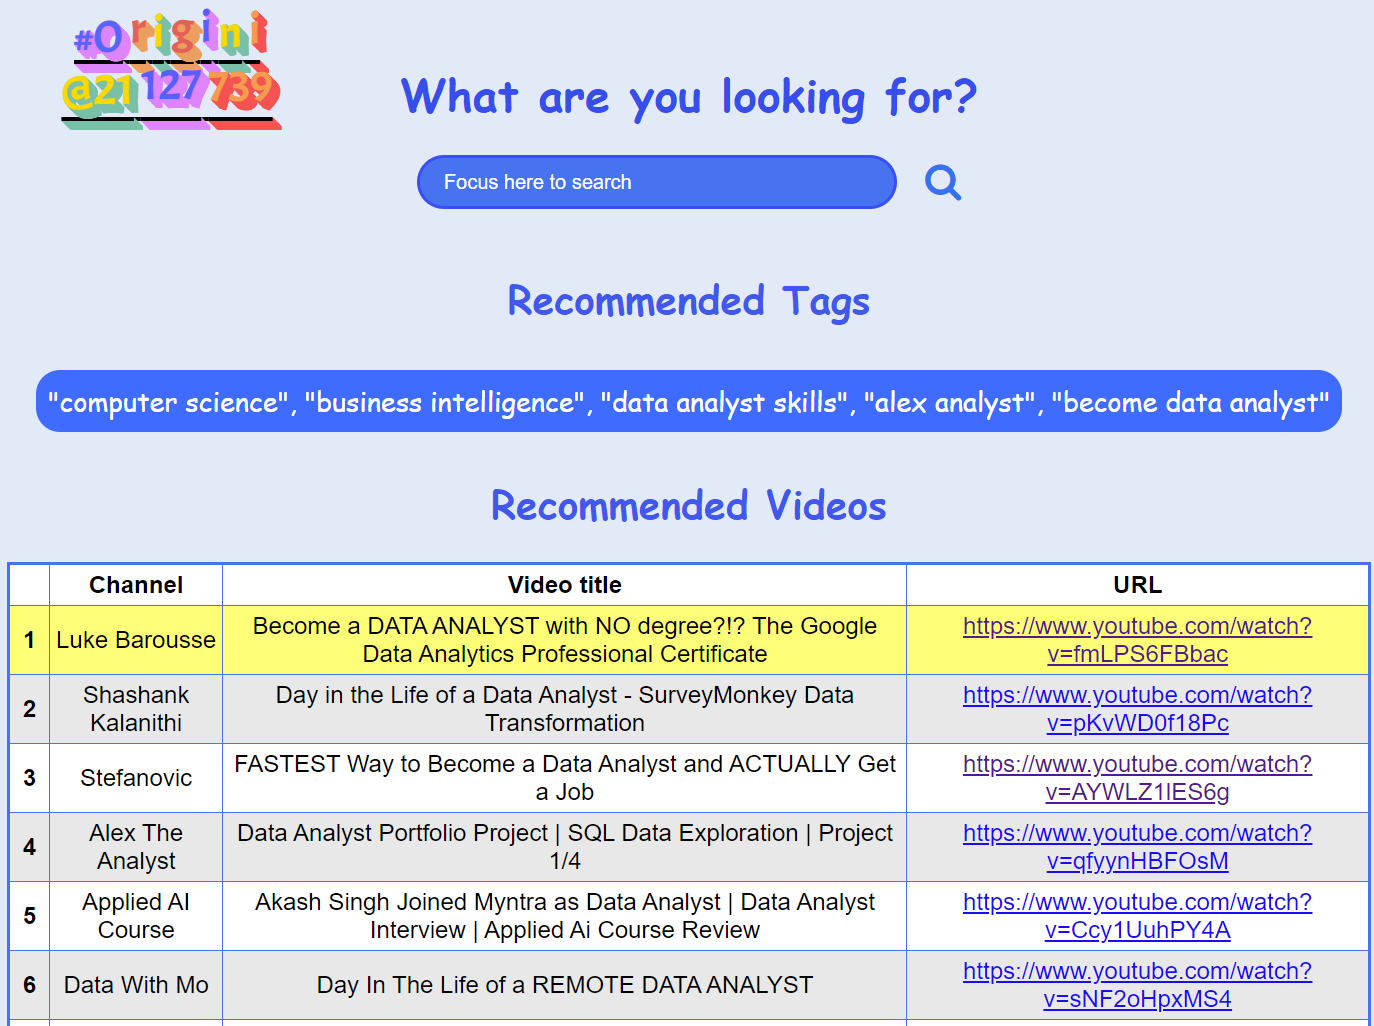
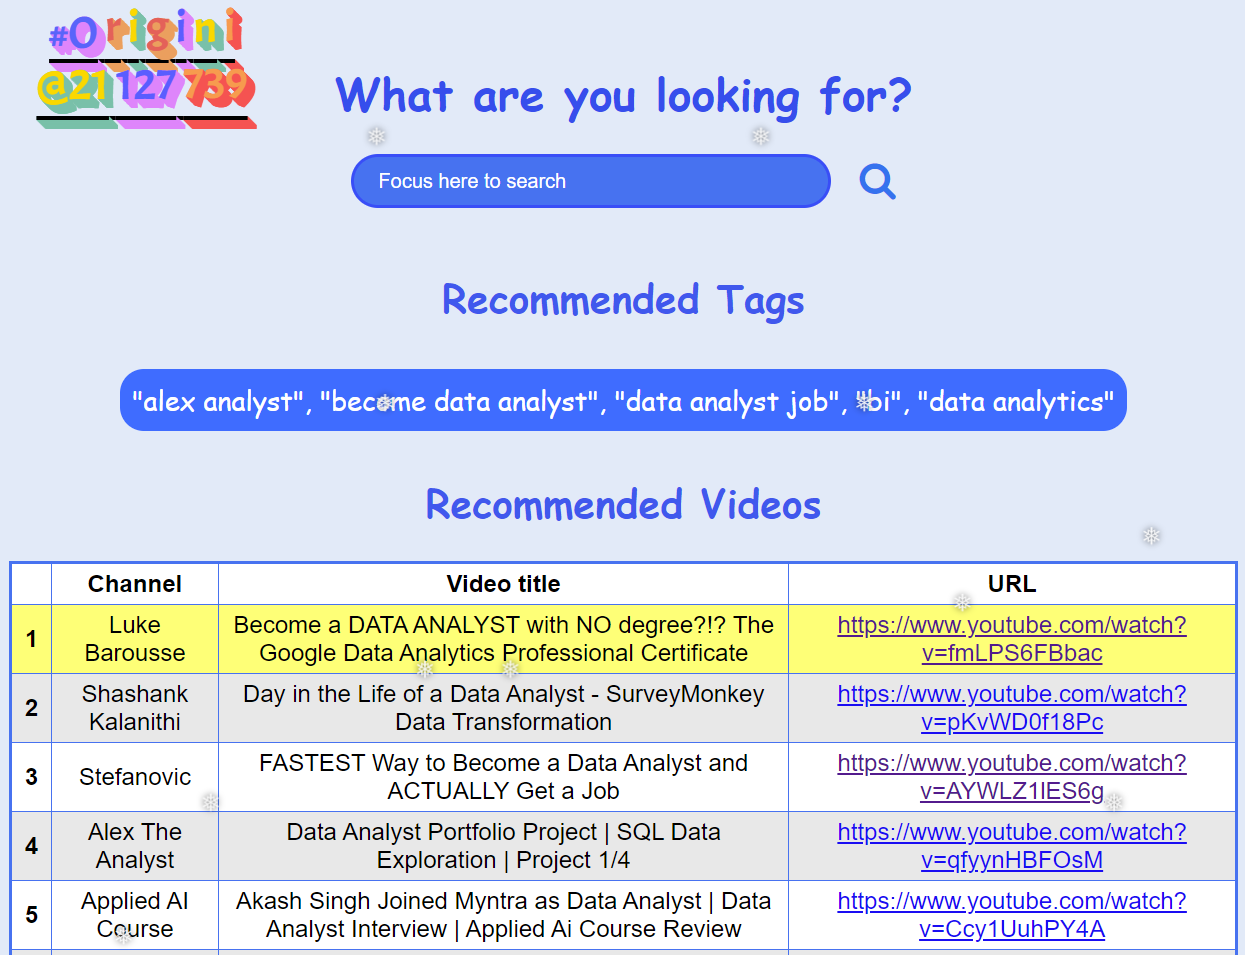
Add snowflakes animation for website

diff --git a/src/templates/index.html b/src/templates/index.html
@@ -242,6 +242,111 @@
     text-decoration: underline;
   }
 
+  .snowflake {
+    color: #fff;
+    font-size: 1em;
+    font-family: Arial, sans-serif;
+    text-shadow: 0 0 5px #000;
+  }
+  .snowflake,.snowflake .inner{
+    animation-iteration-count:infinite;
+    animation-play-state:running
+  }
+  @keyframes snowflakes-fall{
+    0%{transform:translateY(0)}
+    100%{transform:translateY(110vh)}
+  }
+  @keyframes snowflakes-shake{
+    0%,100%{transform:translateX(0)}50%{transform:translateX(80px)}
+  }
+  .snowflake{
+    position:fixed;
+    top:-10%;
+    z-index:9999;
+    -webkit-user-select:none;
+    user-select:none;
+    cursor:default;
+    animation-name:snowflakes-shake;
+    animation-duration:3s;
+    animation-timing-function:ease-in-out}
+    .snowflake .inner{
+      animation-duration:10s;
+      animation-name:snowflakes-fall;
+      animation-timing-function:linear
+  }
+  .snowflake:nth-of-type(0){
+    left:1%;
+    animation-delay:0s
+  }
+  .snowflake:nth-of-type(0) .inner{
+    animation-delay:0s
+  }
+  .snowflake:first-of-type{
+    left:10%;
+    animation-delay:1s
+  }
+  .snowflake:first-of-type .inner,.snowflake:nth-of-type(8) .inner{
+    animation-delay:1s
+  }
+  .snowflake:nth-of-type(2){
+    left:20%;
+    animation-delay:.5s
+  }
+  .snowflake:nth-of-type(2) .inner,.snowflake:nth-of-type(6) .inner{
+    animation-delay:6s
+  }
+  .snowflake:nth-of-type(3){
+    left:30%;
+    animation-delay:2s
+  }
+  .snowflake:nth-of-type(11) .inner,.snowflake:nth-of-type(3) .inner{
+    animation-delay:4s
+  }
+  .snowflake:nth-of-type(4){
+    left:40%;
+    animation-delay:2s
+  }
+  .snowflake:nth-of-type(10) .inner,.snowflake:nth-of-type(4) .inner{
+    animation-delay:2s
+  }
+  .snowflake:nth-of-type(5){
+    left:50%;
+    animation-delay:3s
+  }
+  .snowflake:nth-of-type(5) .inner{
+    animation-delay:8s
+  }
+  .snowflake:nth-of-type(6){
+    left:60%;
+    animation-delay:2s
+  }
+  .snowflake:nth-of-type(7){
+    left:70%;
+    animation-delay:1s
+  }
+  .snowflake:nth-of-type(7) .inner{
+    animation-delay:2.5s
+  }
+  .snowflake:nth-of-type(8){
+    left:80%;
+    animation-delay:0s
+  }
+  .snowflake:nth-of-type(9){
+    left:90%;
+    animation-delay:1.5s
+  }
+  .snowflake:nth-of-type(9) .inner{
+    animation-delay:3s
+  }
+  .snowflake:nth-of-type(10){
+    left:25%;
+    animation-delay:0s
+  }
+  .snowflake:nth-of-type(11){
+    left:65%;
+    animation-delay:2.5s
+  }
+  
 </style>
 
 <!DOCTYPE html>
@@ -256,19 +361,47 @@
   </head>
   <link rel="stylesheet" type="text/css" href="../static/styles/df_style.css"/>
   <body>
-   
-    <div class="container">
-      <div class="heading">What are you looking for?</div>
-      <form action="/search" method="post">
-        <div class="searchInputWrapper">
-          <input class="searchInput" name="text" 
-              placeholder="Focus here to search" required>
-            <i class="searchInputIcon fa fa-search"></i>
-          </input>
-        </div>
-      </form>
+
+    <!-- Snowflake effect - Reference: https://pajasevi.github.io/CSSnowflakes/ -->
+    <div class="snowflakes" aria-hidden="true">
+      <div class="snowflake">
+        <div class="inner">❅</div>
+      </div>
+      <div class="snowflake">
+        <div class="inner">❅</div>
+      </div>
+      <div class="snowflake">
+        <div class="inner">❅</div>
+      </div>
+      <div class="snowflake">
+        <div class="inner">❅</div>
+      </div>
+      <div class="snowflake">
+        <div class="inner">❅</div>
+      </div>
+      <div class="snowflake">
+        <div class="inner">❅</div>
+      </div>
+      <div class="snowflake">
+        <div class="inner">❅</div>
+      </div>
+      <div class="snowflake">
+        <div class="inner">❅</div>
+      </div>
+      <div class="snowflake">
+        <div class="inner">❅</div>
+      </div>
+      <div class="snowflake">
+        <div class="inner">❅</div>
+      </div>
+      <div class="snowflake">
+        <div class="inner">❅</div>
+      </div>
+      <div class="snowflake">
+        <div class="inner">❅</div>
+      </div>
     </div>
-    
+
     <u>
       <div class="text_decor">
         <div class="playful" aria-label="Created By @VuMinhPhat-21127739">
@@ -288,6 +421,18 @@
         </div>
       </div>
     </u>
+
+    <div class="container">
+      <div class="heading">What are you looking for?</div>
+      <form action="/search" method="post">
+        <div class="searchInputWrapper">
+          <input class="searchInput" name="text" 
+              placeholder="Focus here to search" required>
+            <i class="searchInputIcon fa fa-search"></i>
+          </input>
+        </div>
+      </form>
+    </div>
 
     {% if tags %}
       <div class="title">Recommended Tags</div>

diff --git a/src/list_references.md b/src/list_references.md
@@ -38,3 +38,4 @@
 - Apply CSS class to Pandas DataFrame using `to_html` - [stackoverflow.com](https://stackoverflow.com/questions/50807744/apply-css-class-to-pandas-dataframe-using-to-html)
 - Animated search bar - [codepen.io/Mehto00](https://codepen.io/Mehto00/pen/RwPapgz?editors=1100)
 - The bouncing text in the upper corner of the screen - [codepen.io/SuperbProgrammer](https://codepen.io/SuperbProgrammer/pen/xxLpmez)
+- Snowflakes animation - [pajasevi.github.io/CSSnowflakes/](https://pajasevi.github.io/CSSnowflakes/)
